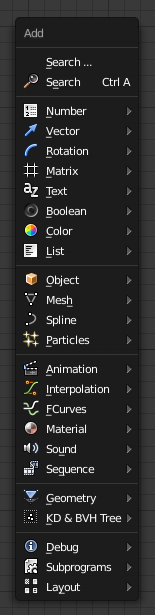
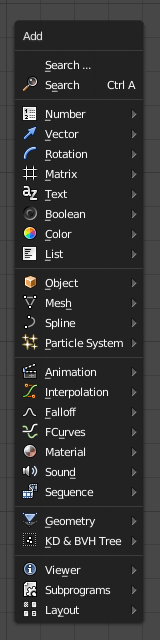
Added Remap Falloff
Plus some typo fix on images and files.

Changed region(s): [[0.0516, 0.0309, 0.9548, 1.0], [0.6452, 0.1236, 0.8516, 0.7724], [0.129, 0.0, 0.8774, 0.0927]]

diff --git a/docs/user_guide/nodes/falloff/remap_falloff.rst b/docs/user_guide/nodes/falloff/remap_falloff.rst
@@ -1,4 +1,4 @@
-Remape Falloff
+Remap Falloff
 ==============
 
 Description
@@ -6,7 +6,7 @@ Description
 
 This node remaps the floats of the input falloff to a new range. The node assume that the original range was ``[0,1]`` Which is usually the case.
 
-.. image:: images/remape_falloff_node.png
+.. image:: images/remap_falloff_node.png
    :width: 160pt
 
 Inputs
@@ -29,4 +29,4 @@ Advanced Node Settings
 Examples of Usage
 -----------------
 
-.. image:: gifs/remape_falloff_node_example.gif
+.. image:: gifs/remap_falloff_node_example.gif

diff --git a/docs/release_notes/v2_0.rst b/docs/release_notes/v2_0.rst
@@ -697,6 +697,14 @@ This node lets you edit falloffs based on an interpolation.
 
 .. image:: images_v2_0/interpolate_falloff.gif
 
+Remap Falloff
+=============
+
+This node remaps the floats of the input falloff to a new range. The node assumes that the original range was ``[0,1]``, which is usually the case.
+
+.. image:: images_v2_0/remap_falloff_node_example.gif
+
+
 Invert Falloff
 ==============
 
